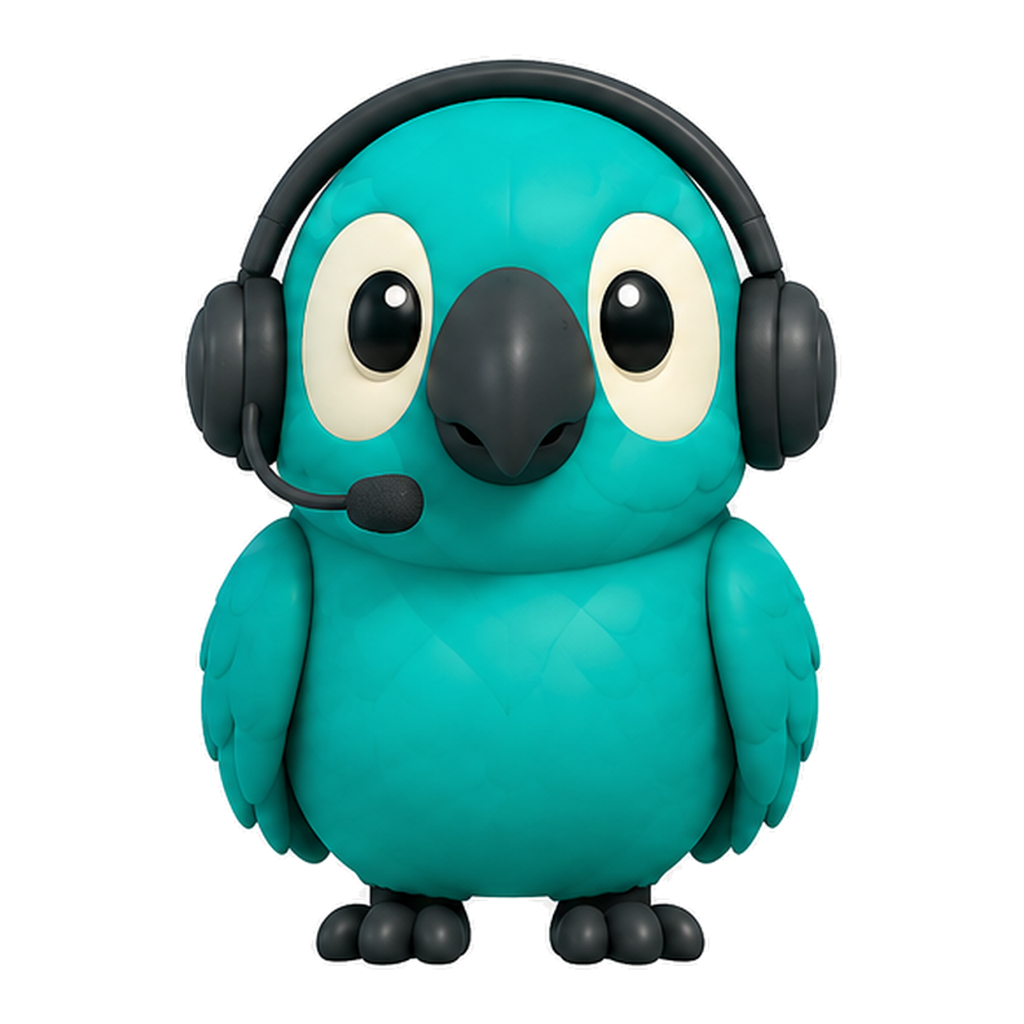
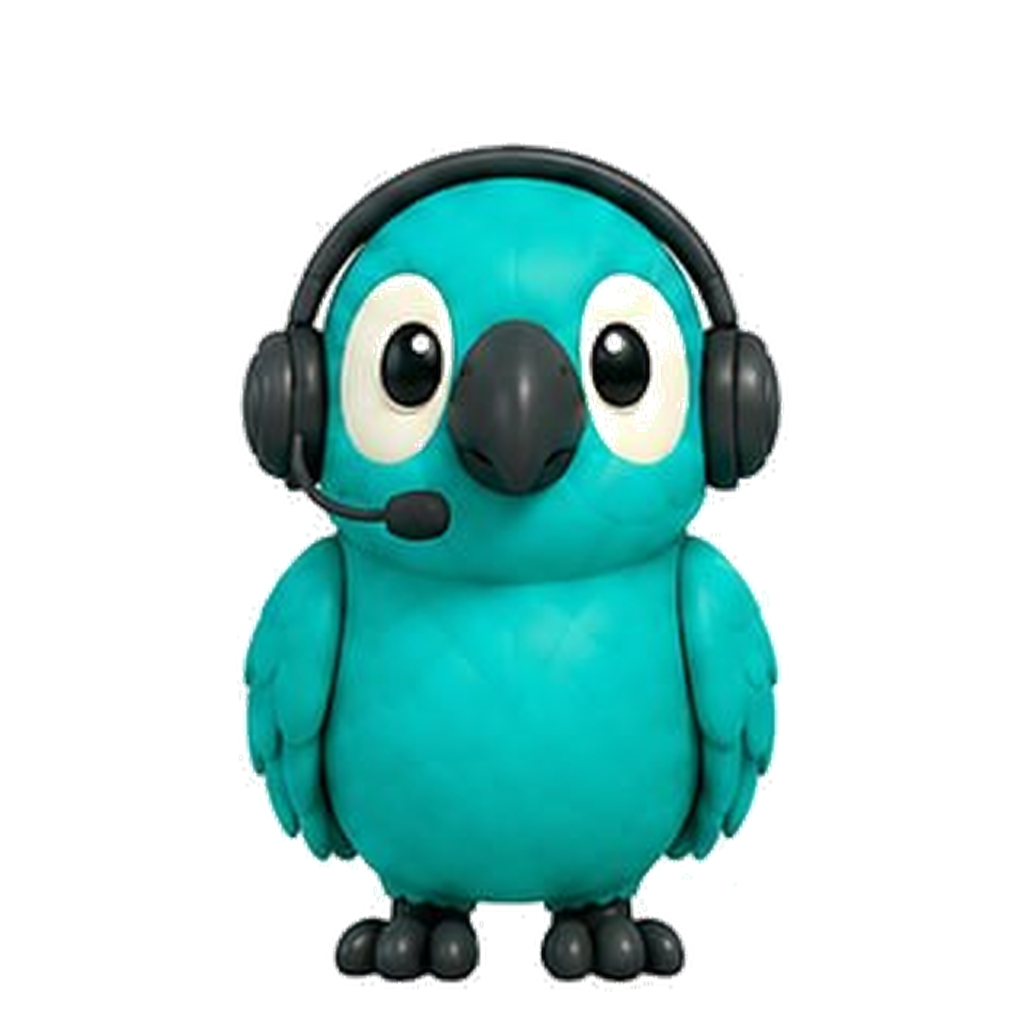
chore(assets): bring optimized brand/recorder/desktop assets from mimic 0ee36d8
Self-contained, build-neutral subset absorbed from legacy mimic's unpushed
commit 0ee36d8 into canonical parro on a local candidate branch:

- mimic_app/public/brand: 16 recompressed brand/avatar PNGs (~20% smaller)
- mimic_recorder/assets: 14 matching recorder PNGs
- mimic_recorder/_locales/{en,ko}/messages.json: 1-line copy updates
- mimic_recorder/build-store-zip.{ps1,py}: packaging-script simplification
- mimic_desktop/native-host: capture-agent.ps1 monitor-select + active-window
  privacy capture, installer extension-id, README

Excludes all app TS/CSS, API routes, lib, components, sdk.js, and the EDU
dashboard — those are entangled and handled separately. No push, no deploy.

Changed region(s): [[0.1562, 0.0312, 0.8438, 0.9688]]

diff --git a/mimic_recorder/build-store-zip.py b/mimic_recorder/build-store-zip.py
@@ -9,7 +9,6 @@ Run:  python build-store-zip.py
 """
 import json
 import os
-import re
 import sys
 import zipfile
 
@@ -18,62 +17,25 @@ ROOT = os.path.dirname(os.path.abspath(__file__))
 # Runtime whitelist — must mirror build-store-zip.ps1 (anything not listed never ships).
 FILES = [
     "manifest.json",
-    "background.js", "content.js", "guide-engine.js", "pre-capture-buffer.js",
-    "targeting.js",
-    "popup.js", "popup.html", "guide-preview.html", "guide-preview.js", "i18n.js",
+    "background.js", "content.js", "guide-engine.js",
+    "desktop-bridge.js", "desktop-import.js", "targeting.js",
+    "popup.js", "popup.html", "i18n.js",
     "_locales/ko/messages.json", "_locales/en/messages.json",
     "offscreen.html", "offscreen.js",
     "request-mic.html", "request-mic.js",
-    "assets/parro-3d-neutral.png", "assets/parro-3d-point.png",
+    "assets/parro-3d-neutral.png",
 ]
-DESKTOP_RUNTIME_FILES = ["desktop-bridge.js", "desktop-import.js"]
 ICONS = ["icon16.png", "icon48.png", "icon128.png"]
-
-
-def packaged_background_source(include_desktop_runtime):
-    """Return the service worker source appropriate for this package profile."""
-    with open(os.path.join(ROOT, "background.js"), encoding="utf-8") as f:
-        source = f.read()
-    if not include_desktop_runtime:
-        source = source.replace(
-            "importScripts('desktop-import.js', 'desktop-bridge.js', 'pre-capture-buffer.js');",
-            "importScripts('pre-capture-buffer.js');",
-        )
-    return source
-
-
-def background_imports(source):
-    """Return every literal script loaded by the MV3 service worker."""
-    imports = []
-    for call in re.finditer(r"\bimportScripts\s*\((.*?)\)\s*;", source, re.DOTALL):
-        imports.extend(re.findall(r"""['"]([^'"]+)['"]""", call.group(1)))
-    return imports
 
 
 def main():
     with open(os.path.join(ROOT, "manifest.json"), encoding="utf-8") as f:
-        manifest = json.load(f)
-    version = manifest["version"]
-    include_desktop_runtime = "nativeMessaging" in manifest.get("permissions", [])
-    files = FILES + (DESKTOP_RUNTIME_FILES if include_desktop_runtime else [])
-    background_source = packaged_background_source(include_desktop_runtime)
+        version = json.load(f)["version"]
 
     out = os.path.join(ROOT, f"parro-recorder-v{version}.zip")
 
-    # Keep the whitelist aligned with background.js. A missing import aborts the
-    # service worker before CONNECT listeners can be registered.
-    worker_imports = background_imports(background_source)
-    missing_from_whitelist = [f for f in worker_imports if f not in files]
-    if missing_from_whitelist:
-        print(
-            "background.js importScripts dependency missing from FILES: "
-            + ", ".join(missing_from_whitelist),
-            file=sys.stderr,
-        )
-        sys.exit(1)
-
     # Verify presence before zipping (fail loud, like the PS script).
-    missing = [f for f in files if not os.path.isfile(os.path.join(ROOT, f))]
+    missing = [f for f in FILES if not os.path.isfile(os.path.join(ROOT, f))]
     missing += [f"icons/{i}" for i in ICONS if not os.path.isfile(os.path.join(ROOT, "icons", i))]
     if missing:
         print("Missing required file(s): " + ", ".join(missing), file=sys.stderr)
@@ -83,10 +45,7 @@ def main():
         os.remove(out)
 
     with zipfile.ZipFile(out, "w", zipfile.ZIP_DEFLATED) as z:
-        for f in files:
-            if f == "background.js":
-                z.writestr(f, background_source)
-                continue
+        for f in FILES:
             if f in {"_locales/ko/messages.json", "_locales/en/messages.json"}:
                 # 운영 패키지는 locale의 dev 표식을 제거한다.
                 with open(os.path.join(ROOT, f), encoding="utf-8") as mf:
@@ -97,19 +56,9 @@ def main():
         for i in ICONS:
             z.write(os.path.join(ROOT, "icons", i), arcname=f"icons/{i}")
 
-    required_entries = set(files + [f"icons/{i}" for i in ICONS])
-    with zipfile.ZipFile(out, "r") as z:
-        missing_from_archive = sorted(required_entries.difference(z.namelist()))
-    if missing_from_archive:
-        print(
-            "Built ZIP is missing required file(s): " + ", ".join(missing_from_archive),
-            file=sys.stderr,
-        )
-        sys.exit(1)
-
     size_kb = round(os.path.getsize(out) / 1024, 1)
     print(f"OK  parro-recorder-v{version}.zip  ({size_kb} KB)")
-    print(f"Included: {len(files)} files + {len(ICONS)} icons (forward-slash paths)")
+    print(f"Included: {len(FILES)} files + {len(ICONS)} icons (forward-slash paths)")
 
 
 if __name__ == "__main__":

diff --git a/mimic_desktop/native-host/README.md b/mimic_desktop/native-host/README.md
@@ -12,6 +12,7 @@ The production Desktop App can later replace this host with a signed Tauri binar
 - `UNDO_CAPTURE_STEP`
 - `MARK_NEXT_CAPTURE_PRIVATE`
 - `UPDATE_TOOLBAR_BOUNDS`
+- `LIST_DISPLAYS`
 - `GET_CAPTURE_SESSION`
 - `READ_CAPTURE_IMAGE_CHUNK`
 - `PING`
@@ -29,8 +30,9 @@ This dev host verifies the first Desktop Companion contract:
    bounds exclusion all use local control files inside the active session
    directory.
 
-The current preview captures Windows clicks, the foreground application/window,
-and either the active window or current monitor. When the session is completed,
+The current preview lets the user choose one connected monitor or all monitors
+before recording. A selected monitor records only clicks on that screen; the
+all-monitor option stores the Windows virtual desktop as one image. When the session is completed,
 the Recorder reads the local images in bounded Native Messaging chunks, runs the
 existing Parro AI analysis/upload pipeline, creates a manual, and opens its editor.
 
@@ -50,7 +52,7 @@ MVP 원칙:
 - 파일 내용은 기본으로 업로드하지 않습니다.
 - 기록 중인 세션에서만 파일 작업 흐름을 감지합니다.
 - 비밀번호, OTP, 결제, 개인 인증 화면은 자동 기록 대상에서 제외합니다.
-- 다중 모니터 전체가 아니라 자동 클릭은 활성 앱 창, 수동 캡처는 현재 모니터만 저장합니다.
+- 다중 모니터에서는 녹화 전 한 화면 또는 모든 화면을 명시적으로 선택합니다.
 
 ## Install for local Chrome dev
 
@@ -123,6 +125,7 @@ HKCU\Software\Google\Chrome\NativeMessagingHosts\com.mimic.desktop_companion.dev
 Default allowed Chrome extension IDs:
 
 - current Parro dev extension: `pnkkalnfddapkmiobbhnkbhplakamaok`
+- active Parro dev extension: `fbpgolbgpdlphhlodhehiilobpanehal`
 - legacy dev unpacked extension: `dhfcmomnambegkibjnandckacihnaelb`
 - replacement Chrome Web Store extension under review: `lefkpmfgdbhckcemfghpegleknaepekm`
 - currently published Chrome Web Store extension: `ehbhcdkapcbfehinjapabgoegcjmmbgd`
